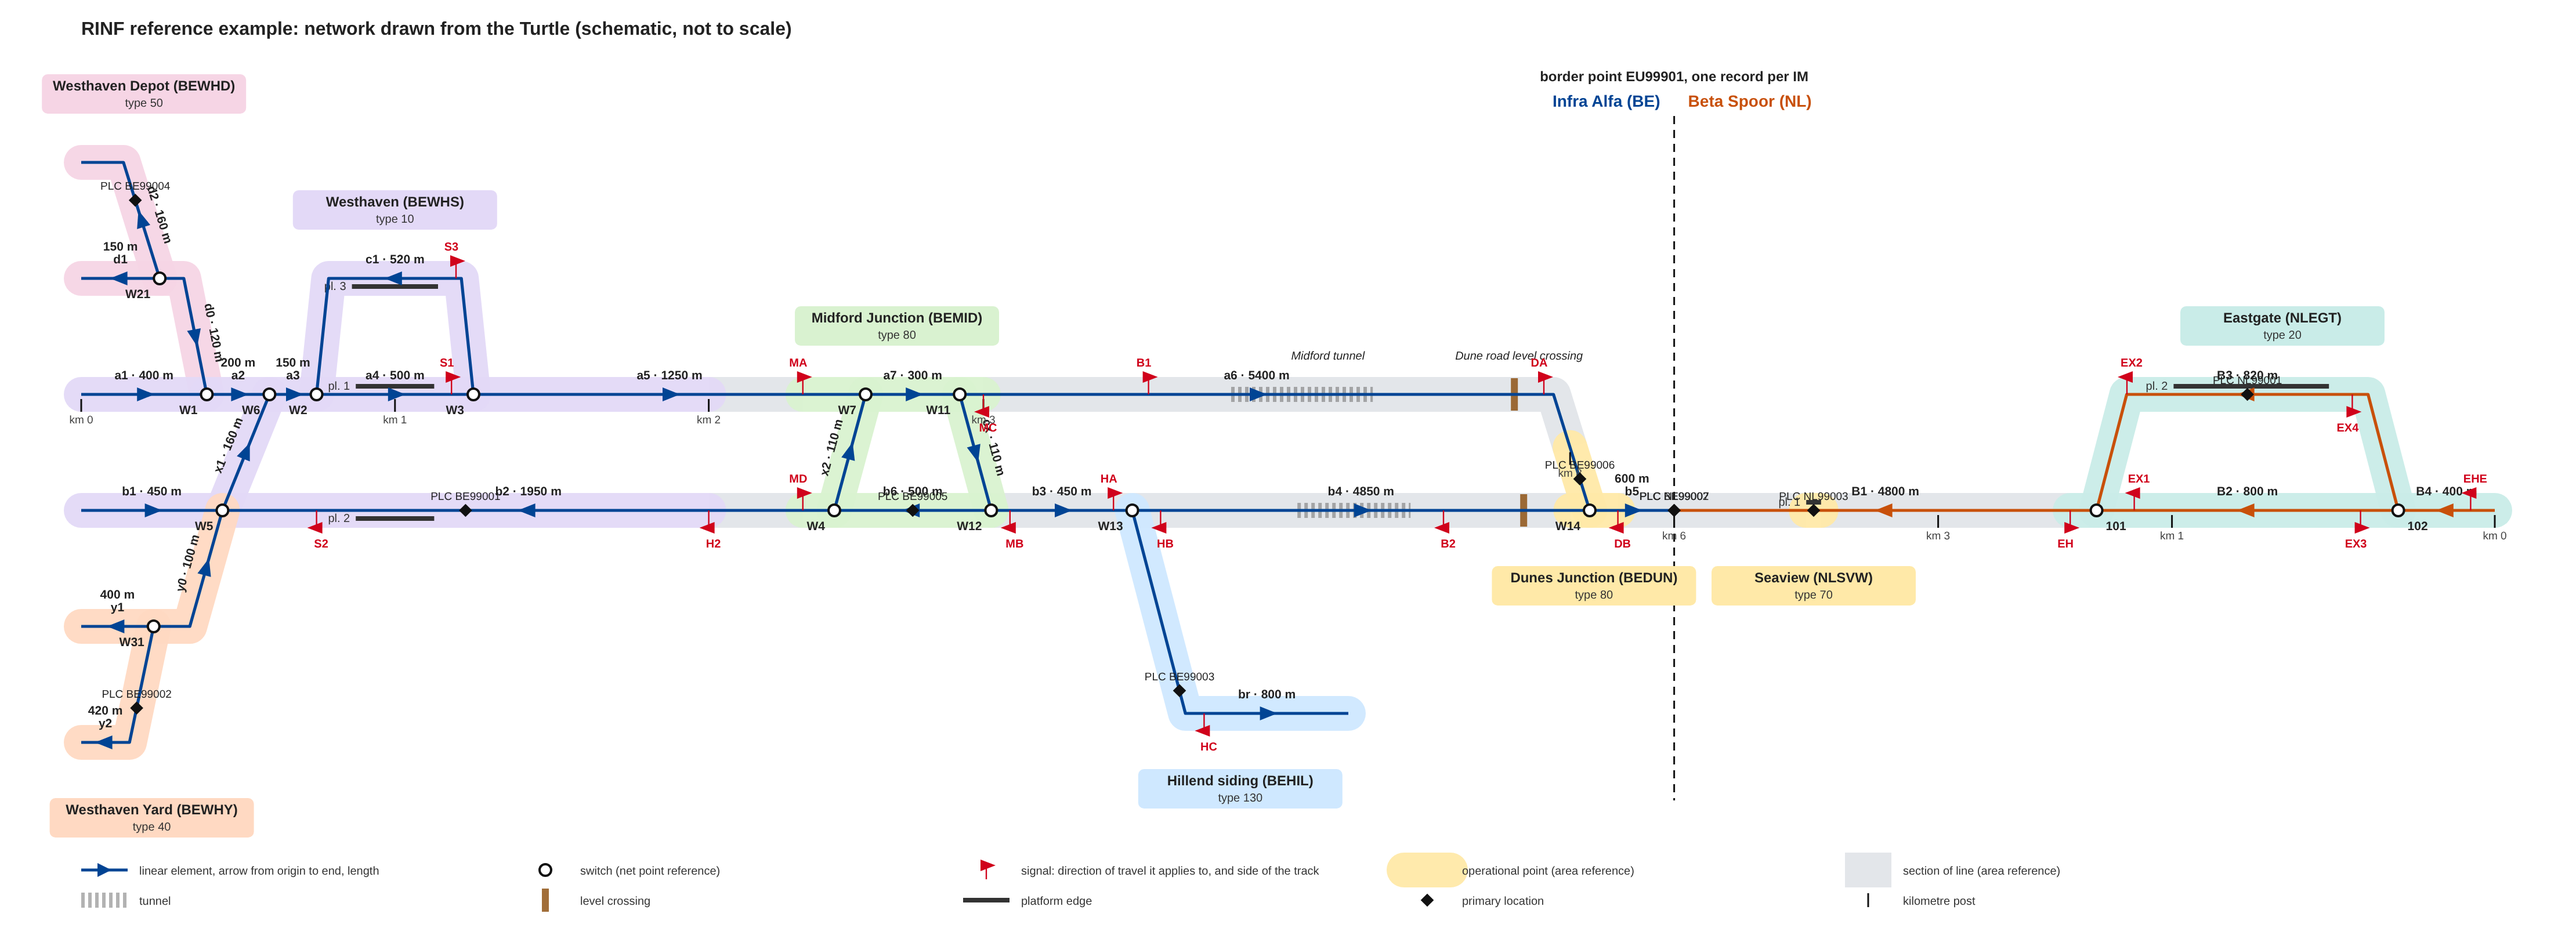
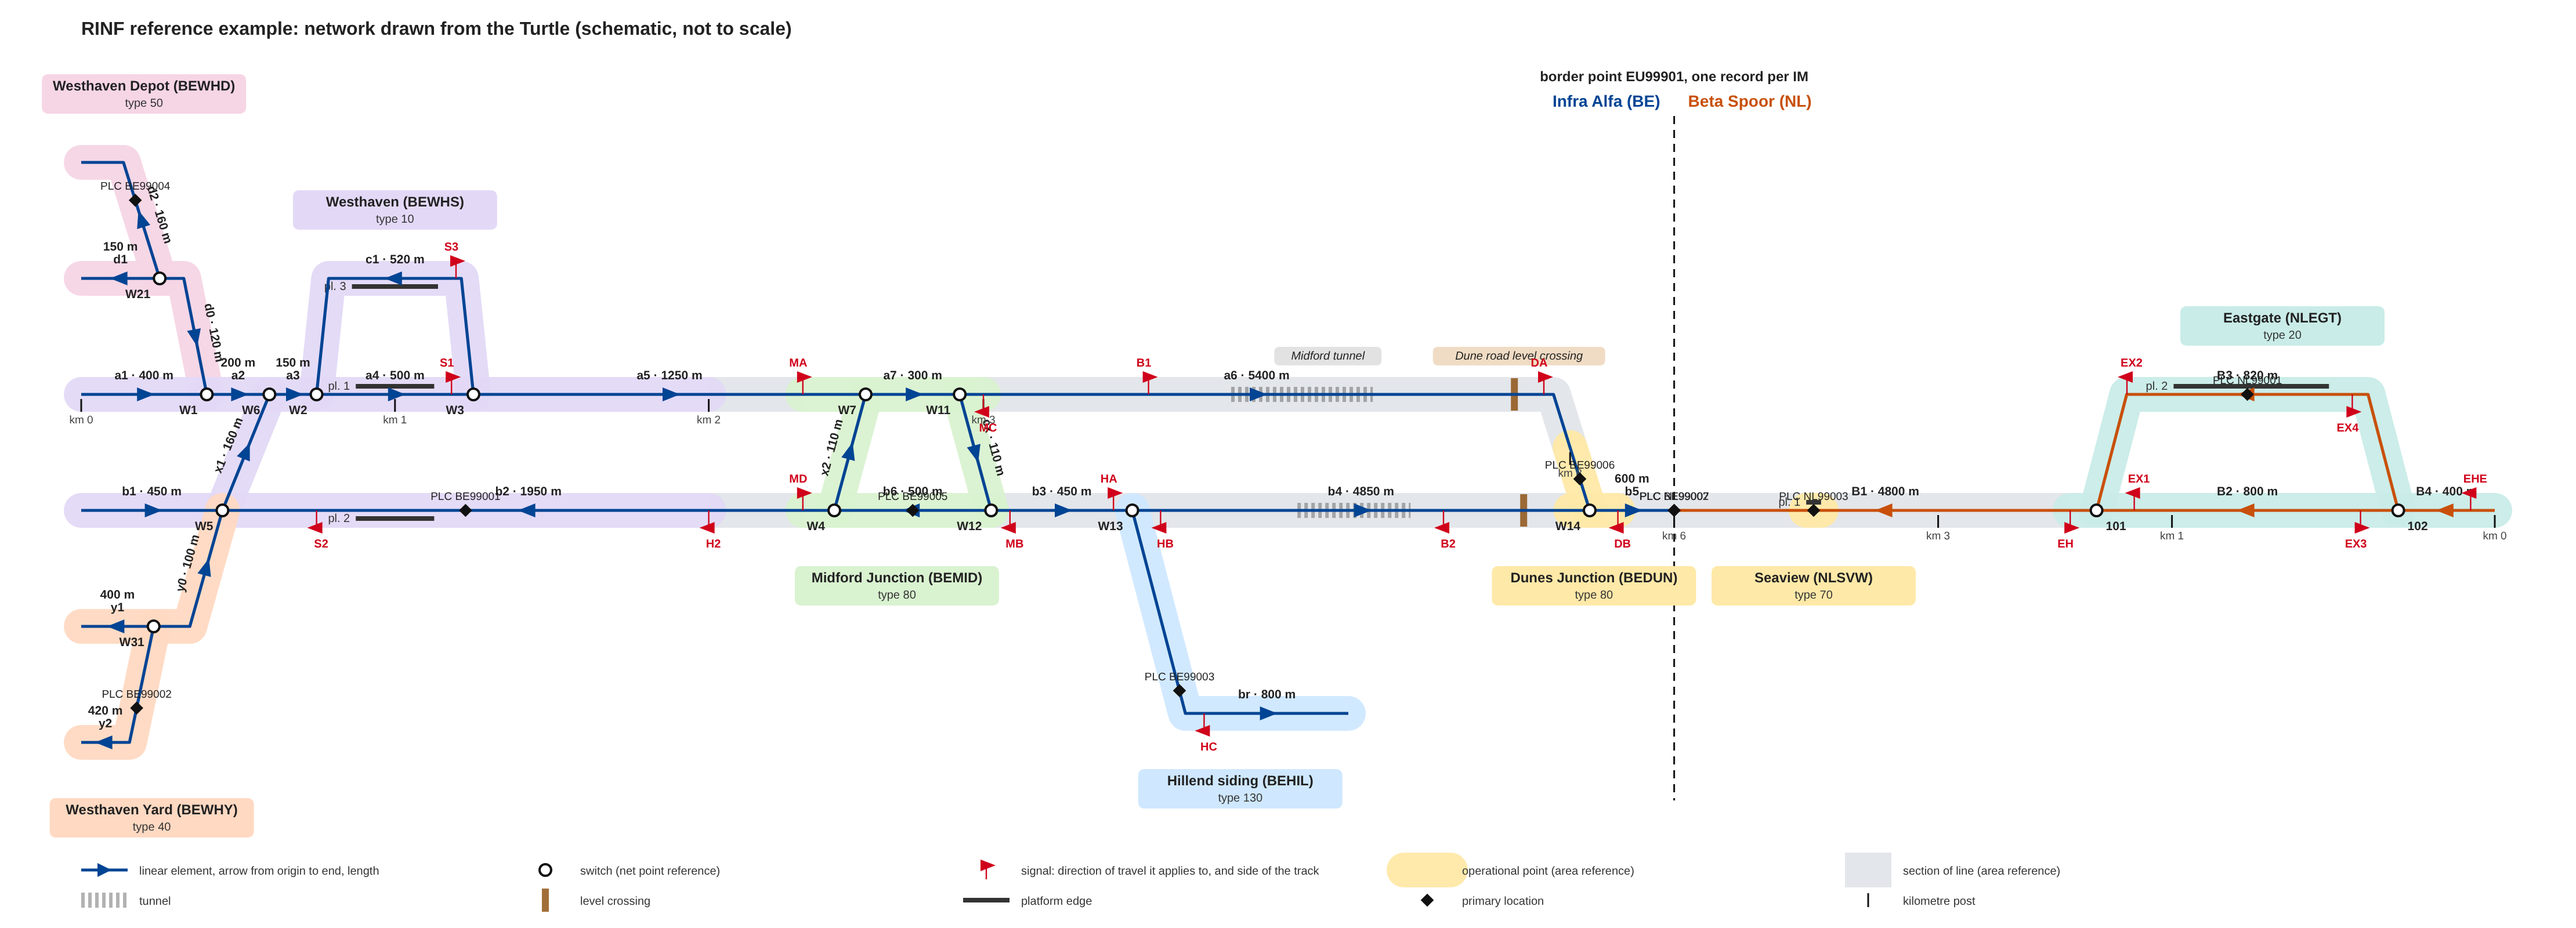
fix: run the line tracks on under the Seaview platform, label tweaks
A platform does not cut a track: the tracks of Eastgate - Seaview and
Seaview - border now run on under the platform edge and meet halfway along
it. The topology check allows a stopping point without tracks to lie on
top of the tracks of its sections of line.

The Midford Junction and Dunes Junction labels move below the lower track
of their area, and the tunnel and level crossing labels get a background.

Changed region(s): [[0.3108, 0.5938, 0.4041, 0.6562], [0.3108, 0.3125, 0.4041, 0.375], [0.4973, 0.375, 0.6216, 0.4062]]

diff --git a/src/components/NetworkDrawing.vue b/src/components/NetworkDrawing.vue
@@ -27,6 +27,7 @@ const sols = instances(ERA + 'SectionOfLine').map((s) => {
   return { iri: s, paths: stretches(ref).map(path) }
 })
 let ci = 0
+const LABEL_BELOW = ['BEMID', 'BEDUN']   // labels drawn below the lowest track of the area
 const ops = [], borders = []
 for (const op of instances(ERA + 'OperationalPoint')) {
   const refIri = value(op, ERA + 'netReference')
@@ -35,7 +36,7 @@ for (const op of instances(ERA + 'OperationalPoint')) {
     const st = stretches(refIri), all = st.flat()
     const xs = all.map((p) => p[0]), ys = all.map((p) => p[1])
     const y0 = Math.min(...ys), y1 = Math.max(...ys)
-    const below = y1 > Y0 + 10
+    const below = y1 > Y0 + 10 || LABEL_BELOW.includes(value(op, ERA + 'uopid'))
     ops.push({ iri: op, paths: st.map(path), color: OPC[ci++ % OPC.length], name: value(op, ERA + 'opName'), uopid: value(op, ERA + 'uopid'), type,
       x: (Math.min(...xs) + Math.max(...xs)) / 2, y: below ? y1 + 62 : y0 - 62 })
   } else {
@@ -67,11 +68,11 @@ const platforms = instances(ERA + 'PlatformEdge').map((pe) => {
 })
 const tunnels = instances(ERA + 'Tunnel').map((t) => {
   const st = stretches(value(t, ERA + 'netReference')), all = st.flat()
-  return { iri: t, paths: st.map(path), name: label(t), x: all.reduce((a, p) => a + p[0], 0) / all.length, y: Math.min(...all.map((p) => p[1])) - 30 }
+  return { iri: t, paths: st.map(path), name: label(t), w: label(t).length * 5.6 + 14, x: all.reduce((a, p) => a + p[0], 0) / all.length, y: Math.min(...all.map((p) => p[1])) - 30 }
 })
 const crossings = instances(ERA + 'LevelCrossing').map((t) => {
   const pts = stretches(value(t, ERA + 'netReference')).map((s) => [(s[0][0] + s[s.length - 1][0]) / 2, s[0][1]])
-  return { iri: t, pts, name: label(t), x: pts.reduce((a, p) => a + p[0], 0) / pts.length, y: Math.min(...pts.map((p) => p[1])) - 30 }
+  return { iri: t, pts, name: label(t), w: label(t).length * 5.6 + 14, x: pts.reduce((a, p) => a + p[0], 0) / pts.length, y: Math.min(...pts.map((p) => p[1])) - 30 }
 })
 const posts = instances(ERA + 'KilometricPost').map((k) => { const q = pos(value(k, ERA + 'netReference')); return { iri: k, p: at(q.e, q.off).p, km: parseFloat(value(k, ERA + 'kilometer')) } })
 // a primary location shares the net reference of its operational point: its mark sits halfway along the longest stretch
@@ -182,9 +183,9 @@ const border = borders.find((b) => b.im === 'be')
 
     <g v-if="on('structures')">
       <g v-for="t in tunnels" :key="t.iri" class="pick" @click="pick($event, t.iri)"><title>{{ shrink(t.iri) }}</title>
-        <path v-for="(d, i) in t.paths" :key="i" :d="d" class="tunnel" /><text :x="t.x" :y="t.y" class="feat">{{ t.name }}</text></g>
+        <path v-for="(d, i) in t.paths" :key="i" :d="d" class="tunnel" /><rect :x="t.x - t.w / 2" :y="t.y - 11" :width="t.w" height="16" rx="4" class="featbg tunnelbg" /><text :x="t.x" :y="t.y" class="feat">{{ t.name }}</text></g>
       <g v-for="t in crossings" :key="t.iri" class="pick" @click="pick($event, t.iri)"><title>{{ shrink(t.iri) }}</title>
-        <line v-for="(p, i) in t.pts" :key="i" :x1="p[0]" :y1="p[1] - 14" :x2="p[0]" :y2="p[1] + 14" class="lc" /><text :x="t.x" :y="t.y" class="feat">{{ t.name }}</text></g>
+        <line v-for="(p, i) in t.pts" :key="i" :x1="p[0]" :y1="p[1] - 14" :x2="p[0]" :y2="p[1] + 14" class="lc" /><rect :x="t.x - t.w / 2" :y="t.y - 11" :width="t.w" height="16" rx="4" class="featbg lcbg" /><text :x="t.x" :y="t.y" class="feat">{{ t.name }}</text></g>
     </g>
     <g v-if="on('platforms')">
       <g v-for="p in platforms" :key="p.iri" class="pick" @click="pick($event, p.iri)"><title>{{ shrink(p.iri) }}</title>
@@ -271,6 +272,8 @@ text { font-family: var(--font); font-size: 11px; fill: var(--c-ink); text-ancho
 .small { font-size: 10px; fill: #333; }
 .opname { font-weight: 700; font-size: 12px; }
 .feat { font-size: 10px; font-style: italic; }
+.tunnelbg { fill: #e2e2e2; }
+.lcbg { fill: #f0dcc4; }
 .border { stroke: #111; stroke-width: 1.5; stroke-dasharray: 7 5; }
 .imbe { fill: var(--c-be); font-weight: 700; font-size: 14px; } .imnl { fill: var(--c-nl); font-weight: 700; font-size: 14px; }
 .marks path { fill: none; stroke: var(--c-hl); stroke-width: 15; stroke-linecap: round; stroke-linejoin: round; opacity: 0.85; }

diff --git a/tools/draw.py b/tools/draw.py
@@ -81,14 +81,17 @@ for op in sorted(g.subjects(RDF.type, ERA.OperationalPoint)):
             T(x - 12, 92, 'Infra Alfa (BE)', 'imbe', 'end'); T(x + 12, 92, 'Beta Spoor (NL)', 'imnl', 'start')
 
 # tunnels, level crossings, platform edges
+def BG(x, y, text, fill):   # a feature label on a coloured background, as the operational point labels
+    w = len(text) * 5.6 + 14
+    o.append(f'<rect x="{x - w / 2:.1f}" y="{y - 11:.1f}" width="{w:.1f}" height="16" rx="4" fill="{fill}"/>'); T(x, y, text, 'feat')
 for t in g.subjects(RDF.type, ERA.Tunnel):
     sts = stretches(g.value(t, ERA.netReference))
     for st in sts: o.append(f'<path d="{path(st)}" class="tunnel"/>')
-    T(sum(p[0] for st in sts for p in st) / sum(len(st) for st in sts), min(p[1] for st in sts for p in st) - 30, lab(t), 'feat')
+    BG(sum(p[0] for st in sts for p in st) / sum(len(st) for st in sts), min(p[1] for st in sts for p in st) - 30, lab(t), '#e2e2e2')
 for t in g.subjects(RDF.type, ERA.LevelCrossing):
     sts = stretches(g.value(t, ERA.netReference)); xs = [(st[0][0] + st[-1][0]) / 2 for st in sts]; ys = [st[0][1] for st in sts]
     for x, y in zip(xs, ys): o.append(f'<line x1="{x:.1f}" y1="{y-14:.1f}" x2="{x:.1f}" y2="{y+14:.1f}" class="lc"/>')
-    T(sum(xs) / len(xs), min(ys) - 30, lab(t), 'feat')
+    BG(sum(xs) / len(xs), min(ys) - 30, lab(t), '#f0dcc4')
 for pe in g.subjects(RDF.type, ERA.PlatformEdge):
     for st in stretches(g.value(pe, ERA.netReference)):
         side = -7 if loc(pe).endswith('1') or 'EGT' in loc(pe) else 7   # platform 3 lies between tracks 3 and 1; Eastgate's on the outside
@@ -146,7 +149,7 @@ for pl in g.subjects(RDF.type, ERA.PrimaryLocation):
     T(x, y - 9, 'PLC ' + str(g.value(pl, ERA.primaryLocationCode)), 'plt')
 
 for x, y0, y1, name, typ, c in oplabels:
-    above = name.startswith(('Westhaven Depot', 'Midford', 'Westhaven (', 'Eastgate'))
+    above = name.startswith(('Westhaven Depot', 'Westhaven (', 'Eastgate'))   # Midford's label goes below its lower track
     y = y0 - 62 if above else y1 + 62
     o.append(f'<rect x="{x-88:.1f}" y="{y-14:.1f}" width="176" height="34" rx="5" fill="{c}"/>'); T(x, y, name, 'opname'); T(x, y + 14, typ, 'small')
 

diff --git a/tools/build_network.py b/tools/build_network.py
@@ -533,12 +533,13 @@ SOLS = [
     ("be", "HIL_DUN", "HIL", "DUN", "10", "line_100", 4650, [
         ("2", "era:RunningTrack", "Hillend - Dunes track 2", [("b4", 0, 4650)], MAIN_BE + [speed(140), *sol_track("be", "20")]),
     ]),
-    # the stopping point Seaview has no track of its own: the sections of line end at its platform edge
-    ("nl", "EGT_SVW", "EGT", "SVW", "10", "line_7", 2830, [
-        ("1", "era:RunningTrack", "Eastgate - Seaview", [("B1", 4500, 1670)], MAIN_NL + [speed(100), *sol_track("nl", "30")]),
+    # the stopping point Seaview has no track of its own: a platform does not cut the track, so the tracks of the
+    # two sections of line run on under the platform edge and meet halfway along it
+    ("nl", "EGT_SVW", "EGT", "SVW", "10", "line_7", 2915, [
+        ("1", "era:RunningTrack", "Eastgate - Seaview", [("B1", 4500, 1585)], MAIN_NL + [speed(100), *sol_track("nl", "30")]),
     ]),
-    ("nl", "SVW_BORD", "SVW", "BORD", "10", "line_7", 1500, [
-        ("1", "era:RunningTrack", "Seaview - border", [("B1", 1500, 0)], MAIN_NL + [speed(100), *sol_track("nl", "30")]),
+    ("nl", "SVW_BORD", "SVW", "BORD", "10", "line_7", 1585, [
+        ("1", "era:RunningTrack", "Seaview - border", [("B1", 1585, 0)], MAIN_NL + [speed(100), *sol_track("nl", "30")]),
     ]),
 ]
 
@@ -578,7 +579,8 @@ for im in IMS:
                        ("era:uopid", '"NLSVW"'), ("era:opType", "era-op-types:70"), *common(im),
                        ("era:netReference", f"{iri}_ref"), ("era:hasPart", "nl:pe_SVW_1"), validity(im, iri)],
              "A stopping point (type passenger stop): one platform edge on the open line, no tracks and no signals of its own.\n"
-             "Its area is the platform edge: the area reference includes the platform edge's own linear reference.")
+             "Its area is the platform edge: the area reference includes the platform edge's own linear reference.\n"
+             "The tracks of the sections of line on either side run on under the platform and meet halfway along it.")
         nar(im, f"{iri}_ref", ["nl:pe_SVW_1_ref"])
     # border point
     e, d = BORDER[im]

diff --git a/tools/check_topology.py b/tools/check_topology.py
@@ -133,12 +133,16 @@ def windows(cls):
                     lo, hi = (0.0, eo) if enter_origin else (eo, length[e])
                 res.append((c, e, lo, hi))
     return res
+# an operational point without tracks (a stopping point) lies on top of the tracks of its sections of line
+def trackless(c):
+    return (c, RDF.type, ERA.OperationalPoint) in g and not any(
+        (p, RDF.type, t) in g for p in g.objects(c, ERA.hasPart) for t in (ERA.Track, ERA.RunningTrack, ERA.Siding))
 cover = collections.defaultdict(list); bad = []
 for c, e, lo, hi in windows(ERA.OperationalPoint) + windows(ERA.SectionOfLine):
     for c2, lo2, hi2 in cover[e]:
-        if c2 != c and min(hi, hi2) - max(lo, lo2) > 1e-6: bad.append(f'{short(e)}: {short(c)} overlaps {short(c2)}')
+        if c2 != c and min(hi, hi2) - max(lo, lo2) > 1e-6 and not (trackless(c) or trackless(c2)): bad.append(f'{short(e)}: {short(c)} overlaps {short(c2)}')
     cover[e].append((c, lo, hi))
-check('operational points and sections of line do not overlap', bad)
+check('operational points and sections of line do not overlap (a stopping point without tracks may)', bad)
 gaps = []
 for e in elems:
     segs = sorted((lo, hi) for _, lo, hi in cover[e]); p = 0.0
